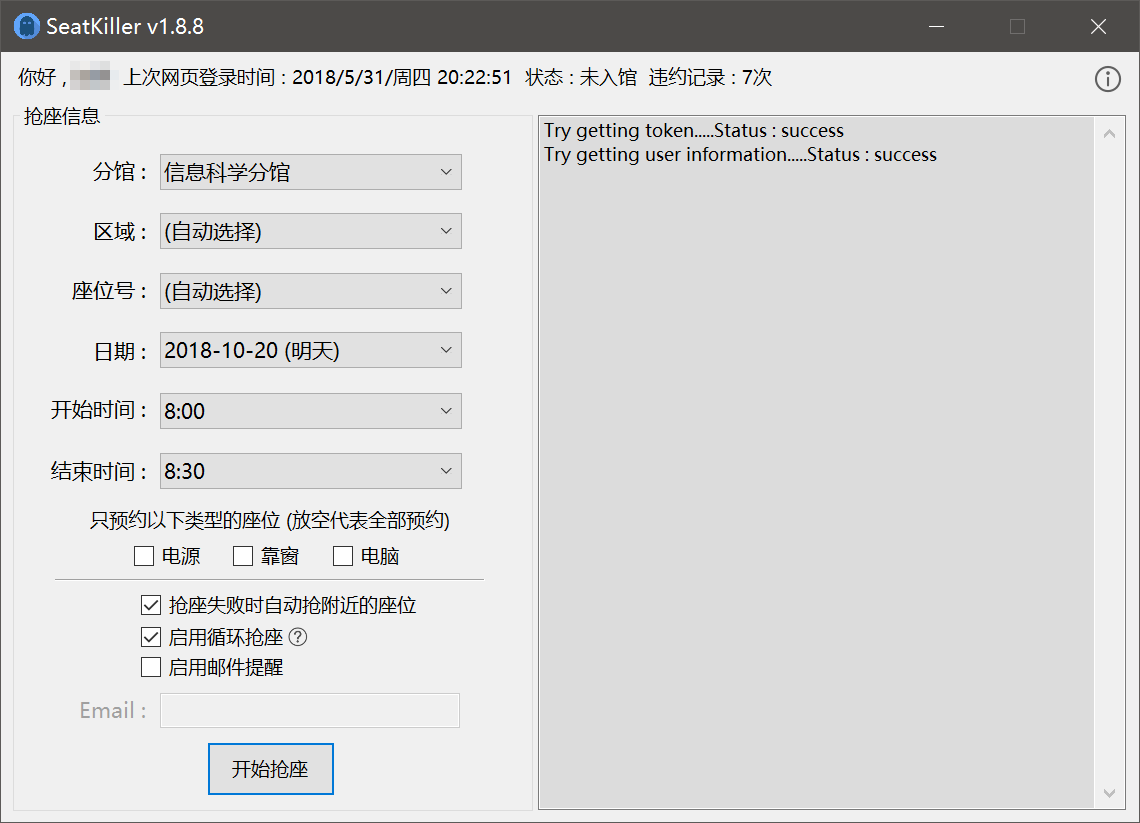
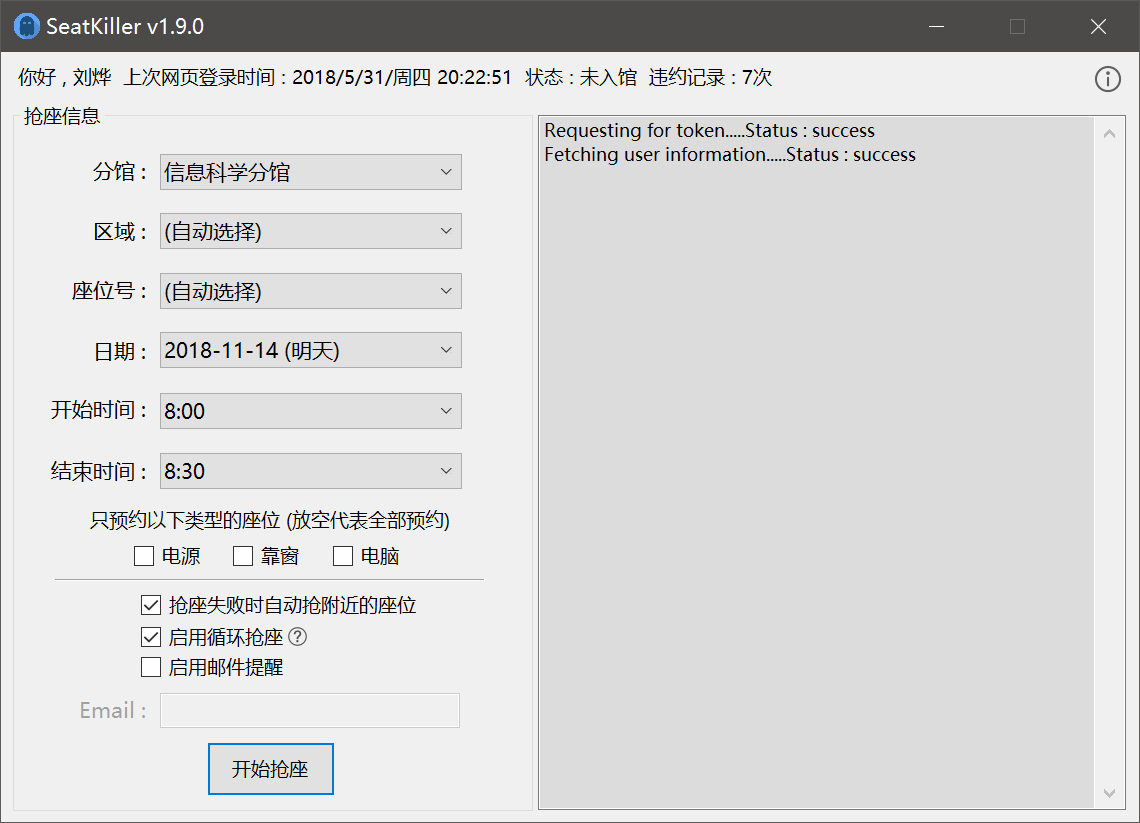
更新v1.9.0

diff --git a/SeatKiller_UI/Properties/Settings.Designer.cs b/SeatKiller_UI/Properties/Settings.Designer.cs
@@ -1,28 +1,24 @@
 //------------------------------------------------------------------------------
 // <auto-generated>
-//     This code was generated by a tool.
-//     Runtime Version:4.0.30319.42000
+//     此代码由工具生成。
+//     运行时版本:4.0.30319.42000
 //
-//     Changes to this file may cause incorrect behavior and will be lost if
-//     the code is regenerated.
+//     对此文件的更改可能会导致不正确的行为，并且如果
+//     重新生成代码，这些更改将会丢失。
 // </auto-generated>
 //------------------------------------------------------------------------------
 
-namespace SeatKiller_UI.Properties
-{
-
-
+namespace SeatKiller_UI.Properties {
+    
+    
     [global::System.Runtime.CompilerServices.CompilerGeneratedAttribute()]
-    [global::System.CodeDom.Compiler.GeneratedCodeAttribute("Microsoft.VisualStudio.Editors.SettingsDesigner.SettingsSingleFileGenerator", "11.0.0.0")]
-    internal sealed partial class Settings : global::System.Configuration.ApplicationSettingsBase
-    {
-
+    [global::System.CodeDom.Compiler.GeneratedCodeAttribute("Microsoft.VisualStudio.Editors.SettingsDesigner.SettingsSingleFileGenerator", "15.8.0.0")]
+    internal sealed partial class Settings : global::System.Configuration.ApplicationSettingsBase {
+        
         private static Settings defaultInstance = ((Settings)(global::System.Configuration.ApplicationSettingsBase.Synchronized(new Settings())));
-
-        public static Settings Default
-        {
-            get
-            {
+        
+        public static Settings Default {
+            get {
                 return defaultInstance;
             }
         }
